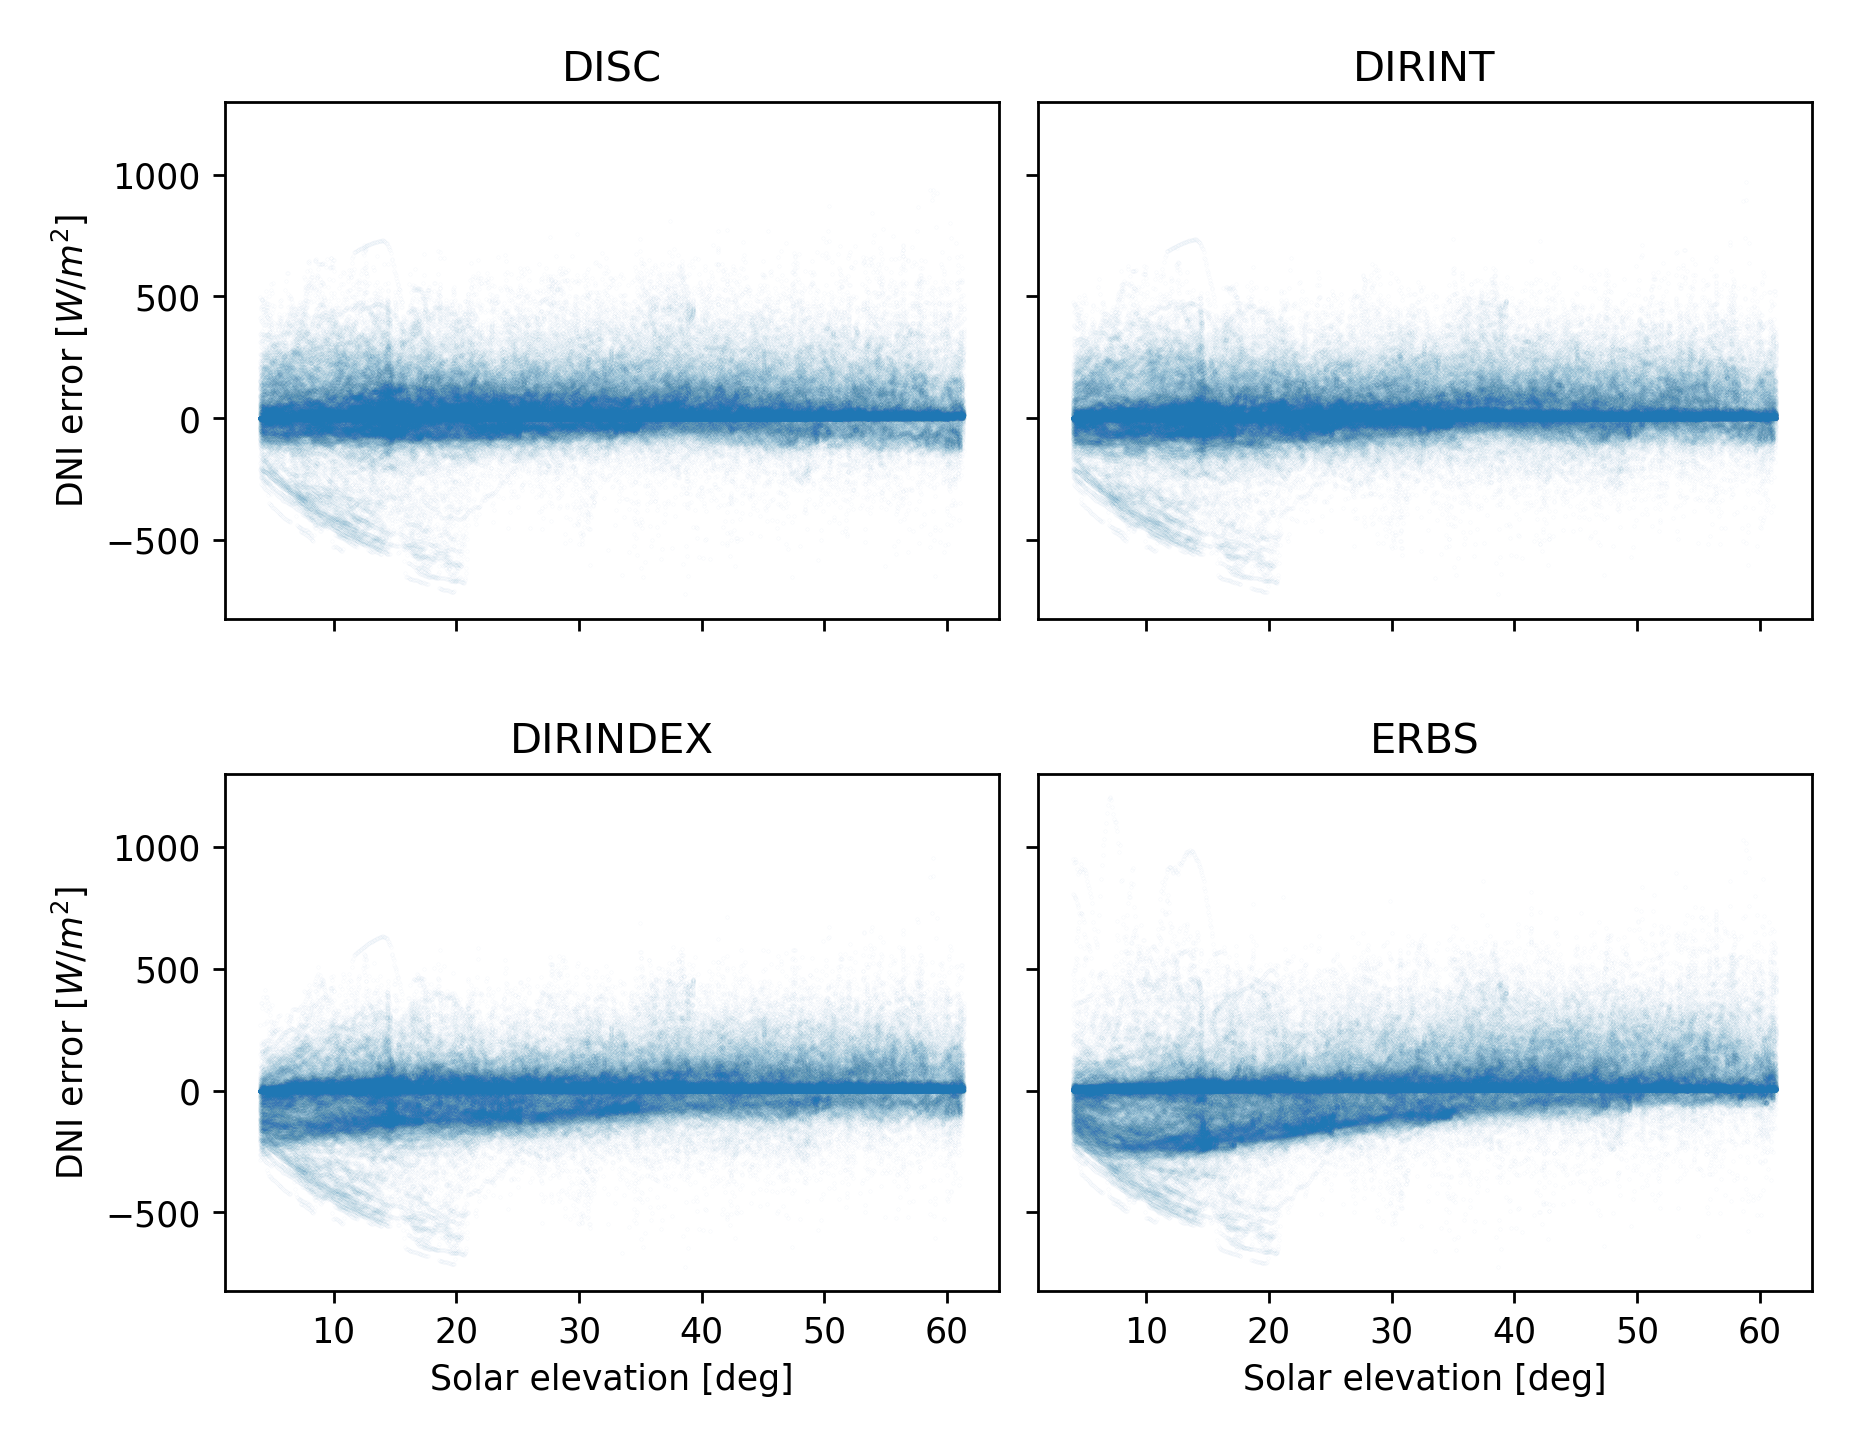
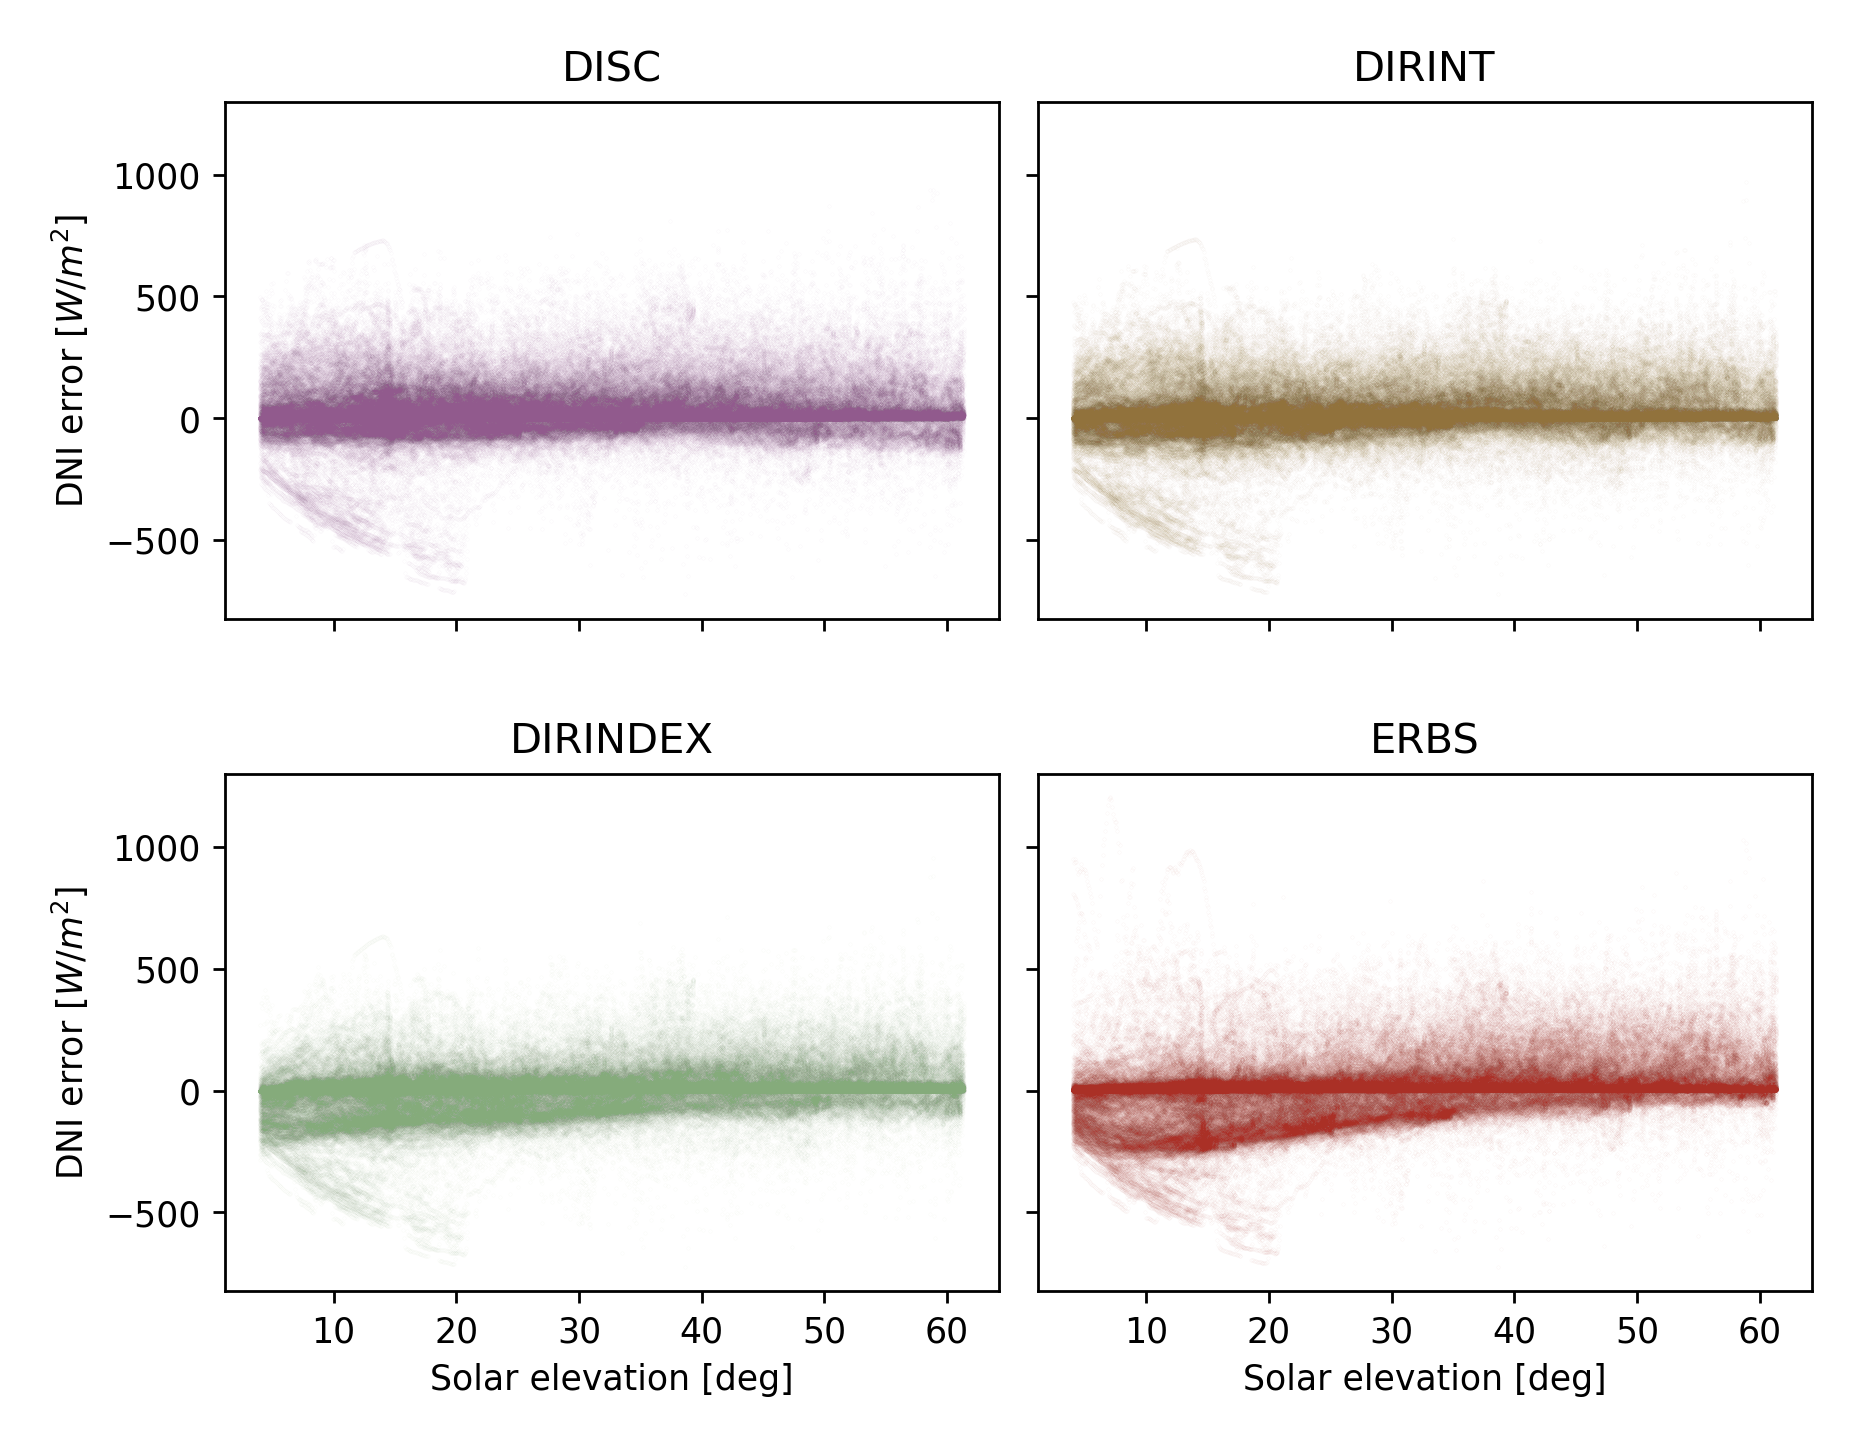
Change the colors of the scatterplot

diff --git a/src/question1.py b/src/question1.py
@@ -29,13 +29,16 @@ def create_measured_vs_calculated_scatterplot(irradiance):
     """
     xlabel = 'Measured DNI [$W/m^2$]'
     ylabel = 'Computed DNI [$W/m^2$]'
+    colors = ('#915a8d', '#91723c', '#85ab7b', '#aa3026')
     figure, axes = utils.plots.create_plot_with_subplots(
         2, 2, xlabel=xlabel, ylabel=ylabel)
 
     for index, model in enumerate(MODELS):
         dotsize = 0.00005
+        color = colors[index]
         subplot = axes[index // 2][index % 2]
-        subplot.scatter(irradiance.DNI, irradiance[f'dni_{model}'], s=dotsize)
+        subplot.scatter(
+            irradiance.DNI, irradiance[f'dni_{model}'], s=dotsize, c=color)
         subplot.title.set_text(model.upper())
 
         # Add a trend line
@@ -52,6 +55,7 @@ def create_elevation_vs_error_scatterplot(irradiance):
     Parameters:
         irradiance (DataFrame): DataFrame with the irradiance
     """
+    colors = ('#915a8d', '#91723c', '#85ab7b', '#aa3026')
     figure, axes = utils.plots.create_plot_with_subplots(
         2, 2, xlabel='Solar elevation [deg]', ylabel='DNI error [$W/m^2$]')
 
@@ -61,8 +65,10 @@ def create_elevation_vs_error_scatterplot(irradiance):
         dni_error = dni_calculated - dni_measured
 
         dotsize = 0.00005
+        color = colors[index]
         subplot = axes[index // 2][index % 2]
-        subplot.scatter(irradiance['solar_elevation'], dni_error, s=dotsize)
+        subplot.scatter(irradiance['solar_elevation'],
+                        dni_error, s=dotsize, c=color)
         subplot.title.set_text(model.upper())
 
     utils.plots.savefig(
